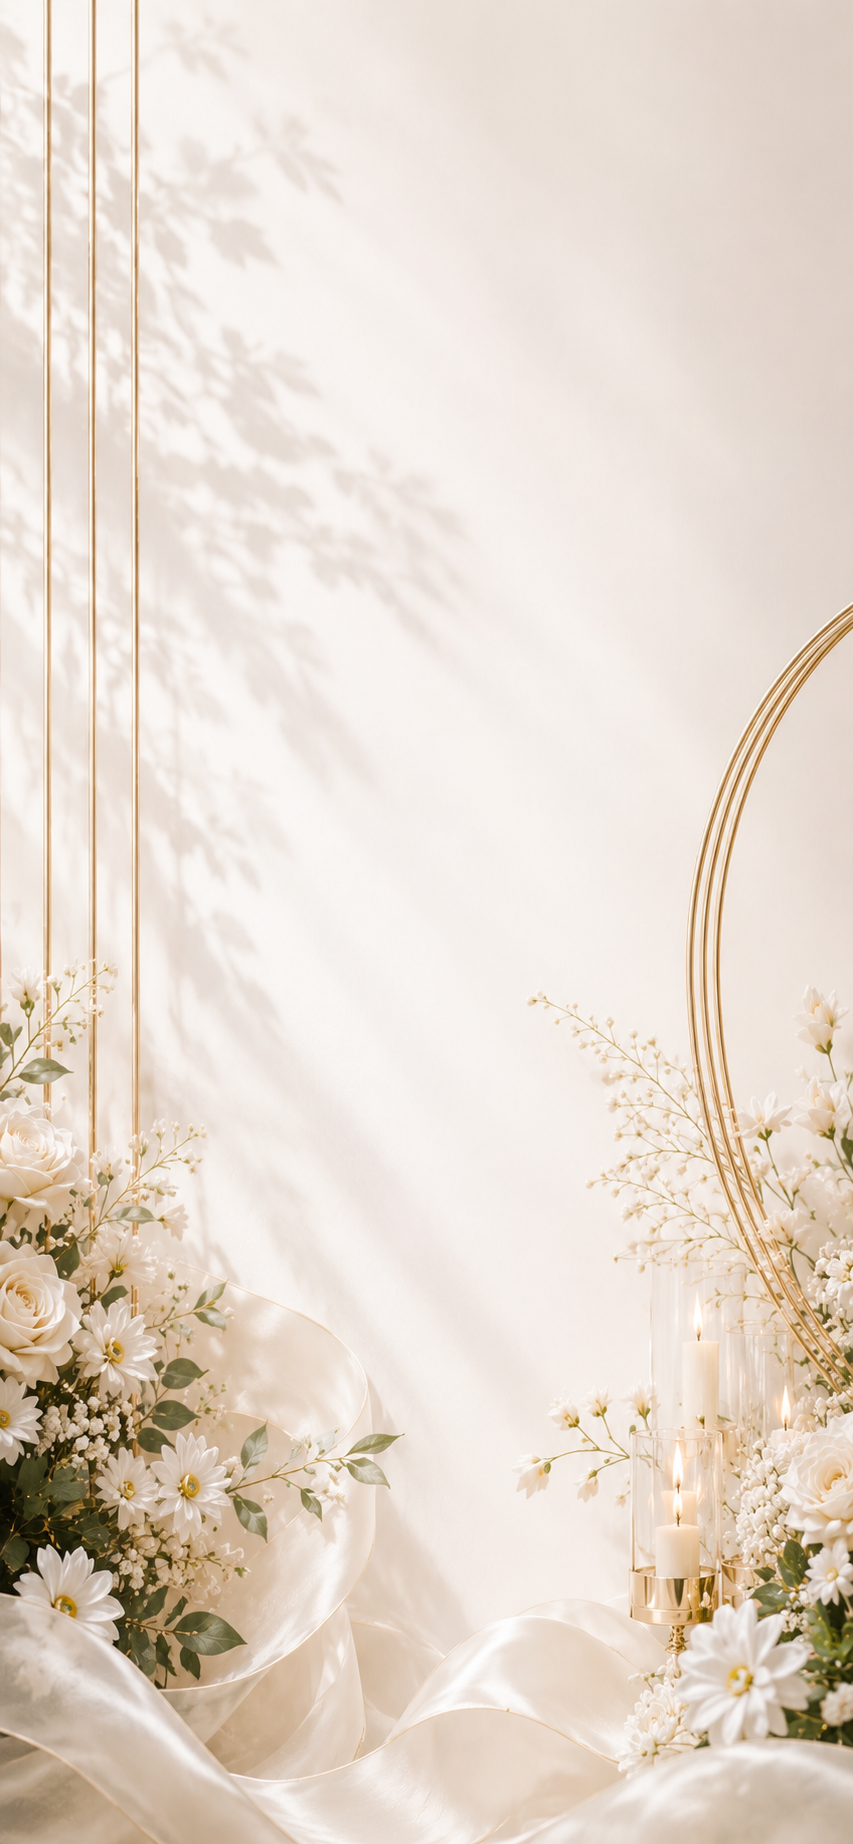
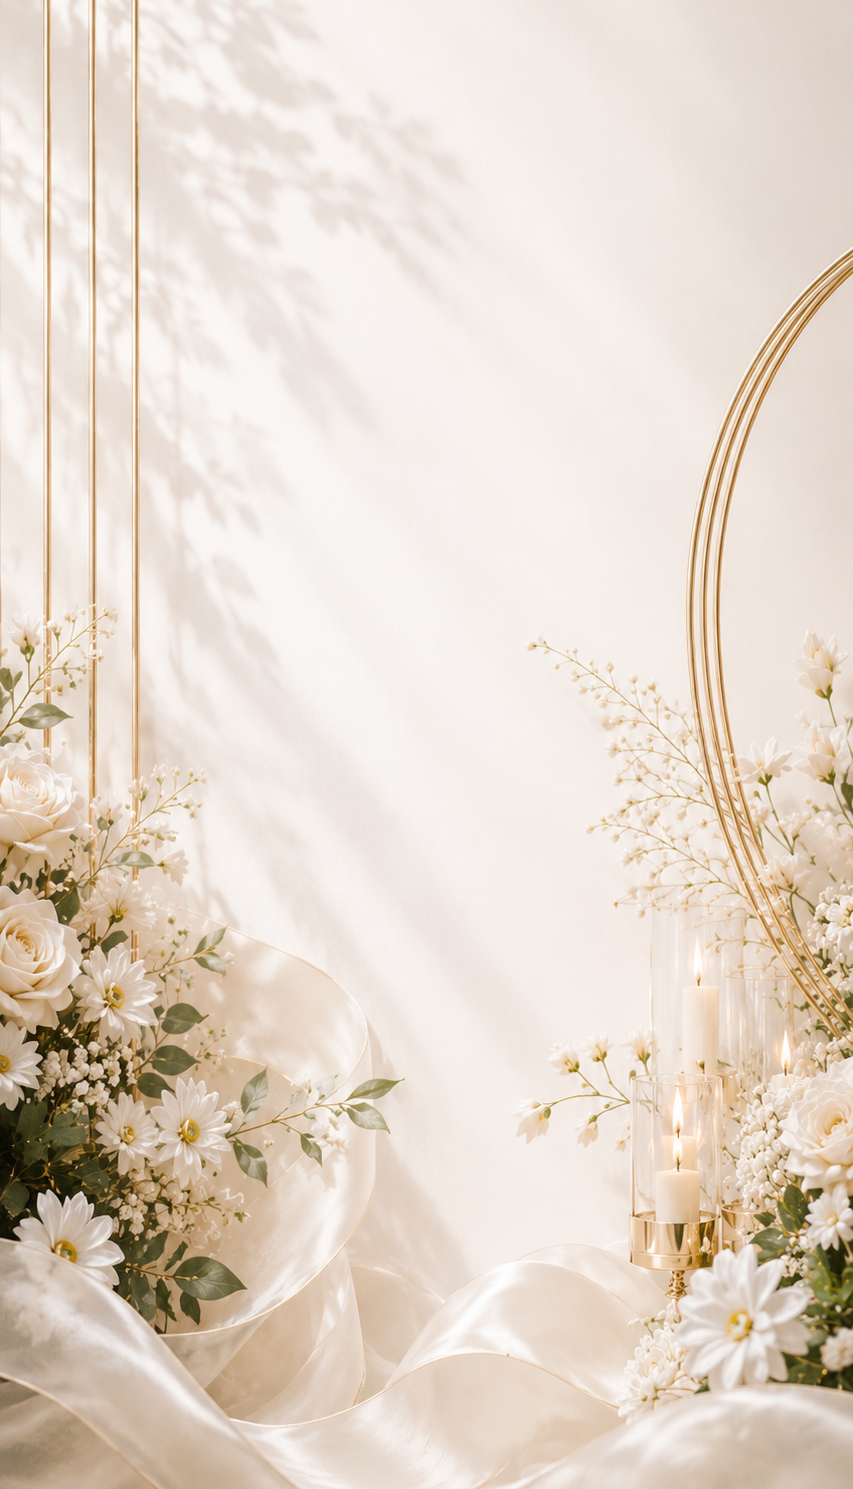
changed mobile hero section

diff --git a/src/components/HeroSection.vue b/src/components/HeroSection.vue
@@ -293,11 +293,11 @@ h1 {
 
 @media (max-width: 768px) {
   .hero {
-    min-height: 650px;
+    min-height: 100dvh;
   }
 
   .bg-image {
-    background-position: center top;
+    background-position: center bottom;
   }
 
   .hero-content {
